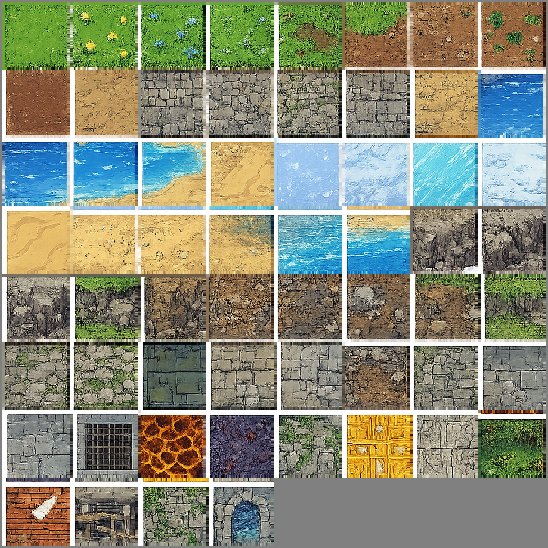
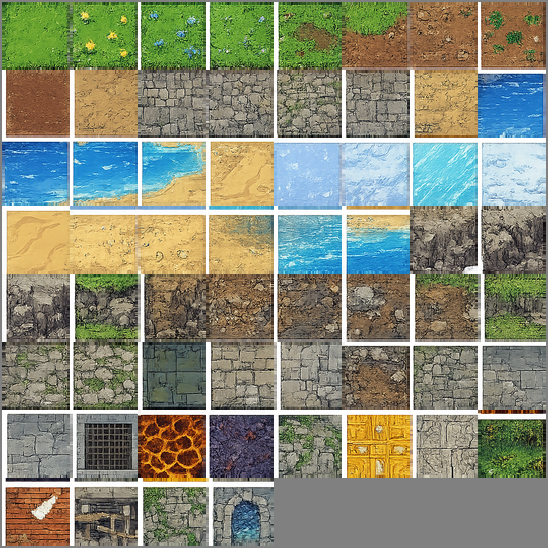
fix: RESIZE scale mode + LANCZOS atlas + crop semi-transparent edges
- Scale mode: FIT -> RESIZE (canvas fills screen exactly, no browser scaling)
- This eliminates non-integer scale factors that cause tile gap artifacts
- Atlas v5: crop semi-transparent left/top edges before scaling
- Atlas v5: LANCZOS scaling for smooth mortar line blending
- Atlas v5: solid gray background, 2px extrude

diff --git a/kids_games/lumenfall/src/phaser-main.ts b/kids_games/lumenfall/src/phaser-main.ts
@@ -4,7 +4,6 @@
  * Modern isometric RPG with smooth 8-direction movement
  * Inspired by Diablo, Ragnarok Online, and Pokémon
  */
-
 import Phaser from 'phaser';
 import { GameScene } from './phaser/scenes/GameScene';
 import { UIScene } from './phaser/scenes/UIScene';
@@ -12,13 +11,12 @@ import { UIScene } from './phaser/scenes/UIScene';
 const config: Phaser.Types.Core.GameConfig = {
   type: Phaser.AUTO,
   parent: 'game-container',
-  // iPad-friendly canvas: 720×480 (3:2 ratio)
-  // On iPad Air (820×1180 portrait / 1180×820 landscape) this fits perfectly
-  // FIT mode scales up/down to fill the screen while preserving ratio
-  width: 720,
-  height: 480,
+  // RESIZE mode: canvas fills the container exactly, no browser scaling
+  // This prevents non-integer scale factors that cause tile gap artifacts
+  width: window.innerWidth,
+  height: window.innerHeight,
   scale: {
-    mode: Phaser.Scale.FIT,
+    mode: Phaser.Scale.RESIZE,
     autoCenter: Phaser.Scale.CENTER_BOTH,
   },
   render: {
@@ -40,5 +38,4 @@ const config: Phaser.Types.Core.GameConfig = {
 
 // Create game instance
 const game = new Phaser.Game(config);
-
 export default game;
